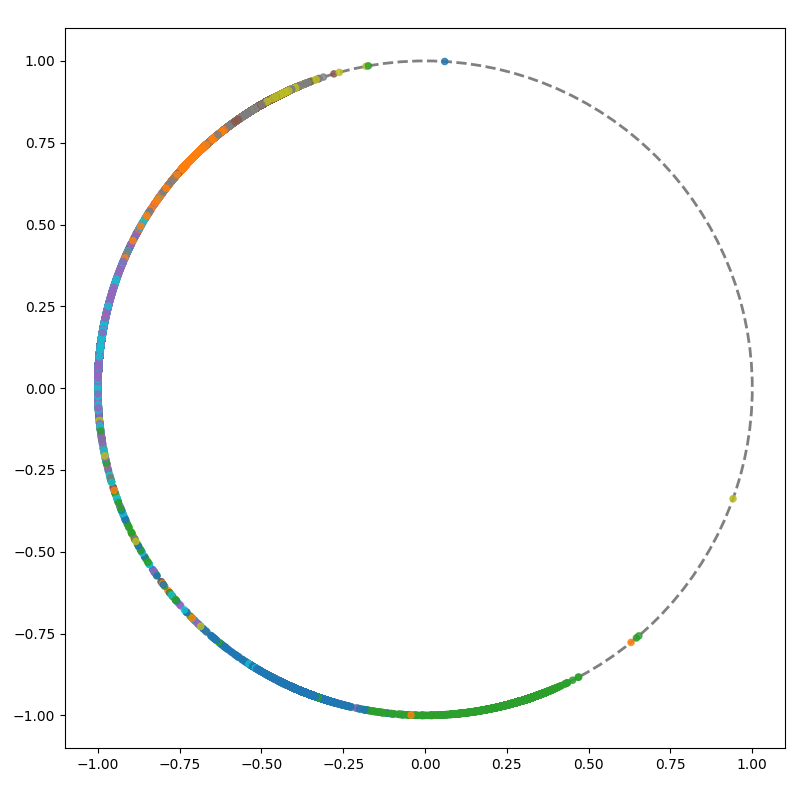
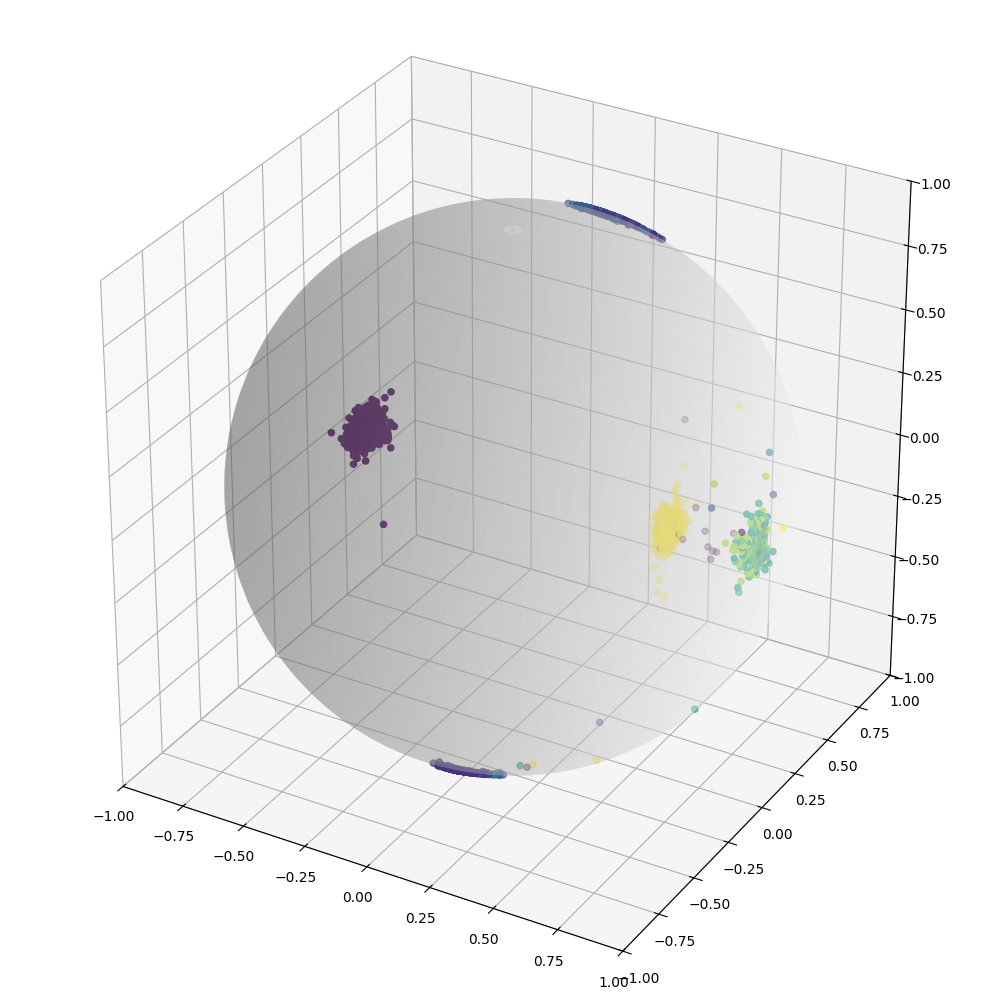
Add config and result for sphereface

diff --git a/src/models/headers.py b/src/models/headers.py
@@ -88,8 +88,8 @@ class SphereFaceHeader(ArcMarginHeader):
     Reference: https://ieeexplore.ieee.org/document/8100196 (CVPR, 2017)
     """
 
-    def __init__(self, in_features, out_features, m=4.0):
-        super().__init__(in_features=in_features, out_features=out_features, s=1, m1=m)
+    def __init__(self, in_features, out_features, s=None, m=4.0):
+        super().__init__(in_features=in_features, out_features=out_features, s=1.0, m1=m)
 
     @property
     def m(self):
@@ -99,7 +99,7 @@ class SphereFaceHeader(ArcMarginHeader):
 class LinearHeader(nn.Module):
     """LinearHeader class."""
 
-    def __init__(self, in_features, out_features):
+    def __init__(self, in_features, out_features, s=None, m=None):
         super().__init__()
 
         self.in_features = in_features

diff --git a/src/pl_module.py b/src/pl_module.py
@@ -19,9 +19,9 @@ class ArcMarginModule(L.LightningModule):
         header: str = "linear",
         embed_dim: int = 3,
         n_classes: int = 10,
+        lr: float = 0.01,
         s: float | None = None,
         m: float | None = None,
-        lr: float = 0.01,
     ):
         super().__init__()
         if data_name == "mnist":

diff --git a/train.py b/train.py
@@ -86,6 +86,8 @@ if __name__ == "__main__":
             "header": "linear",
             "embed_dim": 3,
             "lr": 0.01,
+            # "s": 1.0,
+            # "m": 3.0,
         },
     )
     parser.link_arguments("datamodule.data_name", "pl_module.data_name", apply_on="parse")

diff --git a/README.md b/README.md
@@ -81,11 +81,12 @@ Our results for training and evaluating on the MNIST dataset with a 3-dimensiona
         <img src="./assets/sphereface.png" alt="SphereFace Header" width="300">
     </div>
 
+    Config: [configs/sphereface.yaml](/configs/sphereface.yaml)
+
 ## Observations
 
 The training with the margin-based losses is quite sensitive to choosing an appropriate combination of batch-size and learning-rate.
 
 ## Todos
 
-- [ ] Find a working configuration for SphereFace
 - [ ] Find a working parameter set for training on Cifar-10
